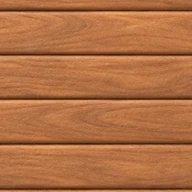
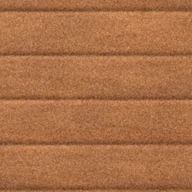
💄 UI : 로비 에셋을 카피바라 펠트 화풍으로 통일 (1차)
- 사진 같던 바닥 텍스처 4종을 펠트 톤으로 보정 (scripts/feltify_ground.py, 물 원본 보존)
- 모든 스프라이트·오두막에 카피바라와 같은 접지 그림자 (drawGroundShadow)
- 타일 경계 단색 직선 띠 → 안쪽으로 옅어지는 그라디언트, 평면 들꽃 점 제거
- 목욕 머리 위 벡터 유자 → 온천 그림 속 펠트 유자 (props/yuzu), 김은 방사형 그라디언트
- 크기 비율: 오두막 높이 맞춤(hut-1·3 폭 5.8), 나무·야자 키움, 등불 줄임
- skills.md에 펠트 통일 규칙(소재·형태·시점·다양성·크기)과 재생성 대기 프롬프트 기록
  (hut-1·hut-3·울타리·등불·방명록 게시판·펠트 바닥은 Codex 한도로 9/20 이후 생성)

diff --git a/app/_lobby/lobby.tsx b/app/_lobby/lobby.tsx
@@ -334,6 +334,14 @@ function saveSession(key: string, value: string) {
 
 const mod = (value: number, size: number) => ((value % size) + size) % size;
 
+/** 발밑 접지 그림자. 캐릭터·오두막·나무·소품 모두 같은 색으로 깔아야 투명 배경 그림이 바닥에 떠 보이지 않는다 */
+function drawGroundShadow(ctx: CanvasRenderingContext2D, x: number, y: number, radiusX: number, radiusY = radiusX / 3) {
+  ctx.fillStyle = "rgba(30,40,10,0.25)";
+  ctx.beginPath();
+  ctx.ellipse(x, y, radiusX, radiusY, 0, 0, Math.PI * 2);
+  ctx.fill();
+}
+
 /** 이미지를 가운데·바닥 기준으로 폭에 맞춰 그리고 그린 영역을 돌려준다 */
 function drawImageBottom(ctx: CanvasRenderingContext2D, image: HTMLImageElement, centerX: number, bottomY: number, width: number) {
   const height = (width * image.naturalHeight) / image.naturalWidth;
@@ -382,20 +390,13 @@ function drawChunk(
       ctx.fillRect(x, y, TILE, TILE);
     }
     if (kind === "meadow") {
-      // 같은 풀 텍스처가 반복돼 보이지 않게 짙은 풀 얼룩과 작은 들꽃을 섞는다
+      // 같은 풀 텍스처가 반복돼 보이지 않게 짙고 옅은 풀 얼룩을 섞는다 (펠트 텍스처와 안 맞는 평면 들꽃 점은 그리지 않는다)
       const noise = hash2(3, tx, ty);
       if (noise < 0.14) {
         ctx.fillStyle = noise < 0.07 ? "rgba(50,90,10,0.16)" : "rgba(255,245,160,0.12)";
         ctx.beginPath();
         ctx.ellipse(x + TILE / 2, y + TILE / 2, TILE * (0.5 + noise * 2), TILE * (0.35 + noise), 0, 0, Math.PI * 2);
         ctx.fill();
-      } else if (noise > 0.95) {
-        ctx.fillStyle = noise > 0.975 ? "#fff6f0" : "#ffd84a";
-        for (let i = 0; i < 3; i++) {
-          ctx.beginPath();
-          ctx.arc(x + 10 + hash2(i + 4, tx, ty) * 28, y + 10 + hash2(i + 7, tx, ty) * 28, 2.2, 0, Math.PI * 2);
-          ctx.fill();
-        }
       }
     }
 
@@ -408,23 +409,19 @@ function drawChunk(
     for (const [dx, dy] of neighbors) {
       const other = TEXTURE_OF[tileAt(tx + dx, ty + dy)];
       if (other === kind) continue;
-      const band = (thick: number) =>
-        [dx > 0 ? x + TILE - thick : x, dy > 0 ? y + TILE - thick : y, dx === 0 ? TILE : thick, dy === 0 ? TILE : thick] as const;
-      if (kind === "deck") {
-        // 데크 가장자리 짙은 테두리목
-        ctx.fillStyle = "#6e3f22";
-        ctx.fillRect(...band(4));
-      } else if (kind === "water") {
-        // 물가: 진흙 둑 + 얕은 물 밝은 띠
-        ctx.fillStyle = "#8a5634";
-        ctx.fillRect(...band(6));
-        ctx.fillStyle = "rgba(255,255,255,0.25)";
-        const [bx, by, bw, bh] = band(9);
-        ctx.fillRect(dx > 0 ? bx : dx < 0 ? bx + 6 : bx, dy > 0 ? by : dy < 0 ? by + 6 : by, dx === 0 ? bw : 3, dy === 0 ? bh : 3);
-      } else if (kind === "mud" && other === "meadow") {
-        ctx.fillStyle = "rgba(70,110,30,0.28)";
-        ctx.fillRect(...band(5));
-      }
+      /** 경계 쪽이 진하고 안쪽으로 옅어지는 띠. 단색 직선 띠는 펠트 텍스처 위에서 계단처럼 튀어 보인다 */
+      const softBand = (thick: number, rgb: string, alpha: number) => {
+        const edgeX = dx > 0 ? x + TILE : x;
+        const edgeY = dy > 0 ? y + TILE : y;
+        const gradient = ctx.createLinearGradient(edgeX, edgeY, edgeX - dx * thick, edgeY - dy * thick);
+        gradient.addColorStop(0, `rgba(${rgb},${alpha})`);
+        gradient.addColorStop(1, `rgba(${rgb},0)`);
+        ctx.fillStyle = gradient;
+        ctx.fillRect(dx > 0 ? x + TILE - thick : x, dy > 0 ? y + TILE - thick : y, dx === 0 ? TILE : thick, dy === 0 ? TILE : thick);
+      };
+      if (kind === "deck") softBand(10, "110,63,34", 0.5); // 데크 가장자리 그늘
+      else if (kind === "water") softBand(14, "138,86,52", 0.55); // 물가 진흙 둑
+      else if (kind === "mud" && other === "meadow") softBand(12, "70,110,30", 0.3);
     }
   });
   return canvas;
@@ -441,6 +438,7 @@ function drawBuilding(
   const centerX = (building.tx + BUILDING_WIDTH / 2) * TILE;
   const bottom = building.frontY + TILE * 0.5;
   if (!ready(image)) return;
+  drawGroundShadow(ctx, centerX, bottom - TILE * 0.3, asset.width * TILE * 0.45, TILE * 0.55);
   const box = drawImageBottom(ctx, image, centerX, bottom, asset.width * TILE);
   if (!ready(icon)) return;
 
@@ -479,34 +477,23 @@ function drawSteam(ctx: CanvasRenderingContext2D, x: number, y: number, now: num
   for (let k = 0; k < 7; k++) {
     const phase = (t * 0.22 + k / 7) % 1;
     const drift = Math.sin(t * 0.8 + k * 1.7) * 14;
-    ctx.fillStyle = `rgba(255,255,255,${0.28 * Math.sin(phase * Math.PI)})`;
+    const cx = x + (k - 3) * 36 + drift;
+    const cy = y - phase * TILE * 2.4;
+    const radius = 16 + phase * 22;
+    // 가장자리가 딱 끊기는 원 대신 안에서 밖으로 흩어지는 김
+    const puff = ctx.createRadialGradient(cx, cy, 0, cx, cy, radius);
+    puff.addColorStop(0, `rgba(255,255,255,${0.3 * Math.sin(phase * Math.PI)})`);
+    puff.addColorStop(1, "rgba(255,255,255,0)");
+    ctx.fillStyle = puff;
     ctx.beginPath();
-    ctx.arc(x + (k - 3) * 36 + drift, y - phase * TILE * 2.4, 10 + phase * 16, 0, Math.PI * 2);
+    ctx.arc(cx, cy, radius, 0, Math.PI * 2);
     ctx.fill();
   }
 }
 
-/** 머리 꼭대기(x, bottom)에 얹은 유자 한 알 */
-function drawYuzu(ctx: CanvasRenderingContext2D, x: number, bottom: number) {
-  const radius = 7;
-  const cy = bottom - radius * 0.7;
-  ctx.fillStyle = "#f5c62e";
-  ctx.strokeStyle = "rgba(120,80,10,0.85)";
-  ctx.lineWidth = 1.5;
-  ctx.beginPath();
-  ctx.ellipse(x, cy, radius, radius * 0.85, 0, 0, Math.PI * 2);
-  ctx.fill();
-  ctx.stroke();
-  // 반들반들 윤기
-  ctx.fillStyle = "rgba(255,255,230,0.8)";
-  ctx.beginPath();
-  ctx.arc(x - radius * 0.35, cy - radius * 0.3, radius * 0.25, 0, Math.PI * 2);
-  ctx.fill();
-  // 꼭지 잎
-  ctx.fillStyle = "#5e9a2e";
-  ctx.beginPath();
-  ctx.ellipse(x + 3, cy - radius * 0.85 - 1, 4, 2, -0.5, 0, Math.PI * 2);
-  ctx.fill();
+/** 머리 꼭대기(x, bottom)에 얹은 펠트 유자 한 알 (온천 그림 속 유자와 같은 그림). 밑면이 털에 묻히게 조금 내린다 */
+function drawYuzu(ctx: CanvasRenderingContext2D, image: HTMLImageElement | undefined, x: number, bottom: number) {
+  if (ready(image)) drawImageBottom(ctx, image, x, bottom + 3, 16);
 }
 
 /**
@@ -521,6 +508,7 @@ function drawBathing(
   stride: number,
   now: number,
   animate: boolean,
+  yuzu: HTMLImageElement | undefined,
   drawBody: (x: number, y: number) => void,
 ) {
   ctx.save();
@@ -540,7 +528,7 @@ function drawBathing(
   const headX = x - STAND_SIZE / 2 + (STAND_SIZE * headCx) / 100;
   const headTop = y + BATH_SINK - STAND_SIZE * STAND_FOOT + (STAND_SIZE * (headCy - headRy)) / 100;
   const lift = stride > 0 && animate ? Math.abs(Math.sin((stride / (STRIDE_PX * 2)) * Math.PI)) * 3 : 0;
-  drawYuzu(ctx, headX, headTop + YUZU_SINK - lift);
+  drawYuzu(ctx, yuzu, headX, headTop + YUZU_SINK - lift);
 }
 
 function drawLabel(ctx: CanvasRenderingContext2D, text: string, x: number, y: number, strong = false) {
@@ -762,12 +750,7 @@ function drawCapybara(
     ctx.drawImage(image, left, top, size, size);
     drawOutfit(ctx, image, outfit, left, top, size, wardrobe.image);
   };
-  if (!look.sitting) {
-    ctx.fillStyle = "rgba(30,40,10,0.25)";
-    ctx.beginPath();
-    ctx.ellipse(x, y, 18, 6, 0, 0, Math.PI * 2);
-    ctx.fill();
-  }
+  if (!look.sitting) drawGroundShadow(ctx, x, y, 18);
 
   if (look.stunned) {
     const image = sprites.get("stun");
@@ -2209,7 +2192,11 @@ export function Lobby({ games }: { games: DoorGame[] }) {
       const sprite = (id: SpriteId, x: number, bottom: number, scale = 1) => {
         const entry = images.get(id);
         if (entry && ready(entry.image)) {
-          drawImageBottom(ctx, entry.image, x, bottom + (entry.asset.offsetY ?? 0), entry.asset.width * TILE * scale);
+          const width = entry.asset.width * TILE * scale;
+          const base = bottom + (entry.asset.offsetY ?? 0);
+          // 물 위에 뜬 수련·납작한 온천은 그림에 이미 바닥이 그려져 있어 그림자를 깔지 않는다
+          if (id !== "lotus" && id !== "onsen") drawGroundShadow(ctx, x, base - 3, width * 0.38);
+          drawImageBottom(ctx, entry.image, x, base, width);
         }
       };
 
@@ -2300,7 +2287,7 @@ export function Lobby({ games }: { games: DoorGame[] }) {
               drawCapybara(ctx, sprites, x, y, remote.facing, look, remote.outfit, wardrobe, now, !reducedMotion);
               if (meal && look.eating >= 0 && !look.sitting) drawFood(ctx, meal.name, x, y, look.eating);
             };
-            if (remoteBathing) drawBathing(ctx, remote.x, remote.y, remote.facing, look.stride, now, !reducedMotion, body);
+            if (remoteBathing) drawBathing(ctx, remote.x, remote.y, remote.facing, look.stride, now, !reducedMotion, images.get("yuzu")?.image, body);
             else body(remote.x, remote.y);
           },
         });
@@ -2330,7 +2317,7 @@ export function Lobby({ games }: { games: DoorGame[] }) {
             drawCapybara(ctx, sprites, x, y, me.facing, myLook, outfitRef.current, wardrobe, now, !reducedMotion);
             if (myMeal && myLook.eating >= 0 && !myLook.sitting) drawFood(ctx, myMeal.name, x, y, myLook.eating);
           };
-          if (myBathing) drawBathing(ctx, drawnX, drawnY, me.facing, myLook.stride, now, !reducedMotion, body);
+          if (myBathing) drawBathing(ctx, drawnX, drawnY, me.facing, myLook.stride, now, !reducedMotion, images.get("yuzu")?.image, body);
           else body(drawnX, drawnY);
         },
       });

diff --git a/lib/lobby/assets/index.ts b/lib/lobby/assets/index.ts
@@ -19,12 +19,13 @@ import guestbookBoard from "./props/guestbook-board";
 import lantern from "./props/lantern";
 import logSeat from "./props/log-seat";
 import onsen from "./props/onsen";
+import yuzu from "./props/yuzu";
 import type { LobbyAsset } from "./types";
 
 export type { BuildingAsset, GroundAsset, LobbyAsset, LobbyAssetCategory, SpriteAsset } from "./types";
 
 export const GROUND_ASSETS = [meadow, mud, water, deck] as const;
-export const SPRITE_ASSETS = [treeTropical, palm, lotus, bananaBush, grassBush, rocks, reeds, fence, logSeat, lantern, guestbookBoard, onsen] as const;
+export const SPRITE_ASSETS = [treeTropical, palm, lotus, bananaBush, grassBush, rocks, reeds, fence, logSeat, lantern, guestbookBoard, onsen, yuzu] as const;
 /** 오두막 모양. 게임 순서대로 돌려 쓴다 — 여기에 추가하면 오두막 종류가 늘어난다 */
 export const BUILDING_ASSETS = [hut1, hut2, hut3] as const;
 

diff --git a/lib/lobby/assets/buildings/hut-1/index.ts b/lib/lobby/assets/buildings/hut-1/index.ts
@@ -1,9 +1,9 @@
 import type { BuildingAsset } from "../../types";
 
-/** 초가 원두막 + 나무 아케이드 간판. 폭은 오두막 칸(BUILDING_WIDTH 6) + 처마 0.8 */
+/** 초가 원두막 + 나무 아케이드 간판. 키가 큰 그림이라 폭을 줄여 세 오두막 높이를 약 290px(카피바라의 4배대)로 맞춘다 */
 export default {
   id: "hut-1",
   category: "buildings",
-  width: 6.8,
+  width: 5.8,
   screen: { x: 0.409, y: 0.108, width: 0.196, height: 0.154 },
 } as const satisfies BuildingAsset;

diff --git a/lib/lobby/assets/buildings/hut-3/index.ts b/lib/lobby/assets/buildings/hut-3/index.ts
@@ -1,9 +1,9 @@
 import type { BuildingAsset } from "../../types";
 
-/** 바나나잎 대나무 원두막 + 나무 TV 간판 */
+/** 바나나잎 대나무 원두막 + 나무 TV 간판. hut-1처럼 키가 커서 폭을 줄여 높이를 맞춘다 */
 export default {
   id: "hut-3",
   category: "buildings",
-  width: 6.8,
+  width: 5.8,
   screen: { x: 0.33, y: 0.292, width: 0.26, height: 0.166 },
 } as const satisfies BuildingAsset;

diff --git a/lib/lobby/assets/props/lantern/index.ts b/lib/lobby/assets/props/lantern/index.ts
@@ -1,4 +1,4 @@
 import type { SpriteAsset } from "../../types";
 
-/** 나무 등불 */
-export default { id: "lantern", category: "props", width: 1 } as const satisfies SpriteAsset;
+/** 나무 등불. 키는 카피바라의 1.2~1.4배 (나무보다 작게) */
+export default { id: "lantern", category: "props", width: 0.8 } as const satisfies SpriteAsset;

diff --git a/lib/lobby/assets/nature/tree-tropical/index.ts b/lib/lobby/assets/nature/tree-tropical/index.ts
@@ -1,4 +1,4 @@
 import type { SpriteAsset } from "../../types";
 
 /** 열대 나무 (바깥 습지 tree 타일) */
-export default { id: "tree-tropical", category: "nature", width: 2.1 } as const satisfies SpriteAsset;
+export default { id: "tree-tropical", category: "nature", width: 2.4 } as const satisfies SpriteAsset;

diff --git a/lib/lobby/assets/props/yuzu/index.ts b/lib/lobby/assets/props/yuzu/index.ts
@@ -1,0 +1,4 @@
+import type { SpriteAsset } from "../../types";
+
+/** 목욕하는 카피바라 머리에 얹는 유자 한 알. 온천 그림 속 펠트 유자를 잘라 썼다. 폭은 drawYuzu가 정한다 */
+export default { id: "yuzu", category: "props", width: 0.33 } as const satisfies SpriteAsset;

diff --git a/lib/lobby/assets/nature/palm/index.ts b/lib/lobby/assets/nature/palm/index.ts
@@ -1,4 +1,4 @@
 import type { SpriteAsset } from "../../types";
 
 /** 야자수 (바깥 습지 tree 타일) */
-export default { id: "palm", category: "nature", width: 1.7 } as const satisfies SpriteAsset;
+export default { id: "palm", category: "nature", width: 2 } as const satisfies SpriteAsset;

diff --git a/scripts/feltify_ground.py b/scripts/feltify_ground.py
@@ -1,0 +1,54 @@
+"""사진 같은 바닥 텍스처를 카피바라 펠트 톤으로 바꾼다: 잔 디테일 제거 → 대비 낮춤 → 털 결 노이즈.
+원본 assets-src/lobby/ground/<id>/source.png → public/assets/images/lobby/ground/<id>/image.webp (192×192)
+3×3로 이어 붙여 처리한 뒤 가운데를 잘라서 반복 이음매가 그대로 이어진다
+
+ponytail: 이미지 처리 보정이다. 펠트 바닥을 make_image로 새로 생성하면(skills.md "펠트 통일 재생성") 이 스크립트는 지운다
+"""
+
+import random
+from pathlib import Path
+
+from PIL import Image, ImageChops, ImageEnhance, ImageFilter
+
+ROOT = Path(__file__).resolve().parent.parent
+
+# id: (중앙값 필터 크기, 흐림 반경, 원래 무늬를 남기는 비율, 채도, 밝기 상한)
+SPEC = {
+    "meadow": (9, 2.0, 0.45, 0.85, 235),
+    "mud": (9, 2.0, 0.5, 0.9, 235),
+    "water": (5, 2.5, 0.8, 1.05, 205),
+    "deck": (7, 1.2, 0.6, 0.9, 235),
+}
+
+
+def tiled(image: Image.Image, fn) -> Image.Image:
+    w, h = image.size
+    big = Image.new(image.mode, (w * 3, h * 3))
+    for i in range(3):
+        for j in range(3):
+            big.paste(image, (i * w, j * h))
+    return fn(big).crop((w, h, w * 2, h * 2))
+
+
+def fiber_noise(size: int, seed: int) -> Image.Image:
+    rnd = random.Random(seed)
+    noise = Image.new("L", (size, size))
+    noise.putdata([128 + rnd.randint(-40, 40) for _ in range(size * size)])
+    return tiled(noise, lambda im: im.filter(ImageFilter.GaussianBlur(0.8))).convert("RGB")
+
+
+for seed, (name, (median, blur, keep, saturation, cap)) in enumerate(SPEC.items()):
+    image = Image.open(ROOT / f"assets-src/lobby/ground/{name}/source.png").convert("RGB").resize((384, 384), Image.LANCZOS)
+    image = tiled(
+        image,
+        lambda big: Image.blend(
+            big.filter(ImageFilter.GaussianBlur(24)),
+            big.filter(ImageFilter.MedianFilter(median)).filter(ImageFilter.GaussianBlur(blur)),
+            keep,
+        ),
+    )
+    image = ImageEnhance.Color(image.point(lambda v: min(v, cap))).enhance(saturation)
+    # 128 기준으로 밝기만 살짝 흔들어 털 결을 입힌다
+    image = ImageChops.add(image, fiber_noise(384, seed), offset=-128)
+    image.resize((192, 192), Image.LANCZOS).save(ROOT / f"public/assets/images/lobby/ground/{name}/image.webp", "WEBP", quality=90, method=6)
+    print(name)

diff --git a/scripts/make_image/skills.md b/scripts/make_image/skills.md
@@ -62,10 +62,47 @@ assets-src/lobby/<분류>/<id>/source.png            # 생성 원본
 - `buildings/hut-{1,2,3}`: 게임 오두막 3종 (1 초가 원두막+나무 아케이드 간판, 2 카피바라 귀 풀 굴집+나무 휴대용 게임기 간판, 3 바나나잎 대나무 원두막+나무 TV 간판). 간판 화면은 이미지에서 비워 두고, 화면 위치(이미지 대비 비율)를 정의의 `screen`에 적는다 — 로비가 그 자리에 게임 아이콘을 그린다
 - 게임 아이콘: `public/assets/images/games/<slug>/icon.webp` (원본 `assets-src/games/<slug>/icon.png`) — 오두막 간판 화면에 켜지는, 그 게임을 알리는 소품 하나. 로비에서 게임을 알리는 표시는 이것 하나뿐이다. 작은 화면에 들어가므로 굵고 단순한 실루엣, 생성 배경은 마젠타(#FF00FF) 단색(검은 조약돌·어두운 나무가 배경 제거에 안 먹히게). 마을 테마에 맞게 나무·잎사귀·조약돌·코코넛 같은 자연 소재 + 펠트 질감 (반응속도=나무 스톱워치, 클릭=나무·이끼 마우스, 몰래 먹기=잎 접시 위 수박, 슈팅=나무·대나무 비행기, 바둑=코코넛 그릇 조약돌, 오목=통나무 판 조약돌, 알까기=통나무 판 위 튕기는 조약돌). 투명 배경, 가장자리까지 자른 뒤 384px 이하. 없으면 아이콘 없이 오두막만 보인다
 - 이전 포털 에셋은 `assets-src/lobby/_archive-portal/`에 보관 (사용 안 함)
-- `ground/{meadow,mud,water,deck}`: 192×192 바닥 텍스처 (2×2 시트 1장 → 칸마다 반 칸 밀어 가장자리 블렌딩, 데크는 판자 줄이라 그대로). 월드 192px(4타일)마다 반복
+- `ground/{meadow,mud,water,deck}`: 192×192 바닥 텍스처 (2×2 시트 1장 → 칸마다 반 칸 밀어 가장자리 블렌딩, 데크는 판자 줄이라 그대로). 월드 192px(4타일)마다 반복. 지금 게임용 이미지는 사진 같던 원본(`source.png`)을 `python scripts/feltify_ground.py`로 펠트 톤으로 보정한 것이다 — 아래 재생성으로 펠트 바닥을 새로 만들면 스크립트는 지운다
+- `props/yuzu`: 목욕하는 카피바라 머리에 얹는 유자. `props/onsen/source.png` 속 유자 윗부분을 타원으로 잘랐다
 - 이전 영국 광장 에셋은 `assets-src/lobby/_archive-british-square/`에 보관 (사용 안 함)
 
 **화풍 일치:** 로비 에셋은 카피바라 기준이다. 새로 만들 때 `assets-src/characters/capybara/capybara-idle-down.png`를 참고 이미지(`-i`)로 넣고 프롬프트에 "첨부 카피바라 인형과 같은 털·펠트 봉제인형 질감"을 적는다. 도시·석조·네온처럼 카피바라가 살지 않을 곳의 소재는 쓰지 않는다
+
+### 펠트 통일 규칙 (로비 에셋 합격 기준)
+
+기준 그림은 `capybara-idle-down.png`, `buildings/hut-2`, `nature/rocks`, `nature/palm`, `props/log-seat`. 새 에셋은 이 중 카피바라 + 가장 비슷한 것 하나를 참고로 넣고, 생성 뒤 카피바라와 같은 축척으로 나란히 붙여 보고 합격을 정한다
+
+- **소재:** 털·펠트 봉제 원단 하나. 나뭇결 무늬, 밧줄 꼬임, 전구 줄, 금속, 유리 반사, 사진 같은 잔디·흙·물 질감 금지
+- **형태:** 통통한 덩어리, 모든 모서리 둥글게, 부품 수 적게. 가는 기둥·계단·대나무 난간 같은 잔 부품 금지
+- **시점·조명:** 세워 그리는 그림은 약간 위에서 본 3/4 정면, 부드러운 빛 하나(왼쪽 위). 바닥 텍스처는 수직으로 내려다본 평면(물체·그림자 없음)
+- **색:** 따뜻한 중채도. 카피바라 갈색, 이끼 초록, 짚 노랑, 크림 베이지가 기본
+- **다양성:** 소재·조명·시점만 통일하고 실루엣·색은 에셋마다 다르게 — 오두막 셋은 hut-1 키 큰 버섯 짚 지붕 / hut-2 곰귀 초록 돔 / hut-3 낮고 넓은 바나나잎 정자처럼 멀리서 실루엣만 봐도 구분돼야 한다
+- **그림자:** 그림에 바닥 그림자를 넣지 않는다 — 접지 그림자는 로비 코드(`drawGroundShadow`)가 모든 스프라이트에 똑같이 깐다
+- **크기(카피바라 서기 키 약 67px 기준, 정의의 `width`로 맞춤):** 오두막 4~4.5배(약 290px) · 나무 2~2.5배 · 등불·게시판 1.2~1.4배 · 부들 1.4배 · 울타리 0.7배
+
+### 펠트 통일 재생성 (대기 중)
+
+2026-09-15에 Codex 사용량 한도(9/20 12:15 해제)로 못 만든 것. 한도가 풀리면 `scripts`에서 아래를 두 개씩 돌리고, 결과를 위 규칙으로 확인한 뒤 각 에셋 폴더(`assets-src/lobby/<분류>/<id>/source.png`, 게임용 WebP 긴 변 672(오두막)·384(소품))에 넣는다. 오두막은 간판 화면 비율 `screen`을 새로 재고, 폭 `width`는 높이 약 290px가 되게 다시 맞춘다
+
+```powershell
+cd scripts
+$CAPY = "../assets-src/characters/capybara/capybara-idle-down.png"
+$HUT2 = "../assets-src/lobby/buildings/hut-2/source.png"
+
+# 1) hut-1: 키 큰 버섯 짚 지붕 + 아케이드 간판
+python -m make_image "게임 오두막 한 채. 첫 번째 참고 이미지 카피바라 인형과 같은 부드러운 털·펠트 봉제인형 질감의 3D 미니어처 렌더. 두 번째 참고 이미지(곰귀 풀 굴집)와 같은 화풍·부드러운 조명(왼쪽 위)·시점(약간 위에서 내려다본 3/4 정면)·통통하고 둥근 덩어리감으로 같은 마을 건물처럼 보여야 한다. 하지만 모양·색은 확실히 달라야 한다: 키가 조금 큰 둥근 원통형 몸통(크림빛 베이지 펠트 벽) 위에 크고 볼록한 버섯 모자 모양의 짚색 노란 펠트 초가 지붕(가장자리가 둥글게 말려 내려옴, 꼭대기에 작은 잎 두 장). 정면 가운데 둥근 아치 문(안은 따뜻한 주황 빛, 작은 펠트 아케이드 게임기 실루엣 하나), 문 옆 동그란 창 하나. 지붕 앞쪽 위에 둥근 모서리 펠트 나무 아케이드 게임기 간판(빨간 동그란 조이스틱 하나와 동그란 버튼 세 개, 가운데 화면은 비어 있는 짙은 갈색 단색 사각형 — 글자·그림·빛 없음). 발밑에 작은 펠트 풀덤불과 흰 꽃 두세 송이. 금지: 나뭇결 무늬, 밧줄 꼬임, 전구 줄, 계단, 가는 기둥, 대나무, 글자. 부품 적게, 모서리 둥글게. 건물 전체가 가운데에 잘리지 않고, 배경은 순수 마젠타(#FF00FF) 단색(그림자·바닥 없음)." -n felt-hut-1 --keep-background -i $CAPY -i $HUT2
+
+# 2) hut-3: 낮고 넓은 바나나잎 정자 + TV 간판
+python -m make_image "게임 오두막 한 채. 첫 번째 참고 이미지 카피바라 인형과 같은 부드러운 털·펠트 봉제인형 질감의 3D 미니어처 렌더. 두 번째 참고 이미지(곰귀 풀 굴집)와 같은 화풍·조명(왼쪽 위)·시점(약간 위에서 내려다본 3/4 정면)·통통한 덩어리감. 모양·색은 확실히 달라야 한다: 가로로 넓고 낮은 한 층 정자. 짧고 아주 통통한 둥근 펠트 기둥 네 개, 둥근 펠트 통나무 단 위에 서 있고, 크고 둥근 밝은 연두 바나나잎 펠트 지붕 두 겹이 부드럽게 늘어진다. 안쪽 둥근 코코넛 갈색 펠트 벽에 둥근 입구(따뜻한 빛, 펠트 게임기 실루엣 하나). 지붕 앞 가운데에 둥근 모서리 펠트 나무 TV 간판(작고 둥근 안테나 두 개, 화면은 비어 있는 짙은 갈색 단색 사각형 — 글자·그림·빛 없음). 양옆에 작은 펠트 바나나잎 덤불. 금지: 대나무, 난간, 가는 기둥, 나뭇결, 밧줄 꼬임, 등불 여러 개, 2층, 글자. 건물 전체가 가운데에 잘리지 않고, 배경은 순수 마젠타(#FF00FF) 단색." -n felt-hut-3 --keep-background -i $CAPY -i $HUT2
+
+# 3) 소품 시트: 울타리·등불·방명록 게시판 (가로 3칸 → 알파 연결 요소로 자름)
+python -m make_image "가로로 긴 소품 시트 한 장, 소품 세 개가 서로 떨어져 가로로 나란히. 모두 첫 번째 참고 이미지 카피바라 인형과 같은 털·펠트 봉제인형 질감 3D 미니어처, 두 번째 참고 이미지(통나무 의자)와 같은 화풍·조명(왼쪽 위)·약간 위에서 본 3/4 정면 시점. 통통하고 둥글게, 부품 적게. 금지: 나뭇결 무늬, 밧줄 꼬임, 금속, 유리, 글자, 바닥 그림자. 1) 울타리 한 칸(좌우로 이어 붙여 쓸 수 있게 정면): 통통하고 둥근 머리의 연한 갈대색 펠트 말뚝 두 개 사이에 부드럽고 둥근 펠트 가로대 두 줄, 말뚝에 작은 잎 하나. 2) 등불: 짧고 통통한 둥근 펠트 말뚝 위에 둥근 호롱 모양 펠트 등(안쪽이 따뜻하게 빛남), 폭:높이 약 1:1.8. 3) 방명록 게시판: 짧고 통통한 둥근 말뚝 두 개, 둥근 모서리 크림 펠트 판에 잎 모양 펠트 쪽지 네 장을 둥근 펠트 단추로 꽂음, 위에 둥근 잎 펠트 지붕. 배경은 순수 마젠타(#FF00FF) 단색." -n felt-props-sheet --keep-background -i $CAPY -i ../assets-src/lobby/props/log-seat/source.png
+
+# 4) 바닥 2×2 시트: 왼쪽 위 풀밭, 오른쪽 위 진흙, 왼쪽 아래 물, 오른쪽 아래 데크 → 칸마다 192로 줄이고 반 칸 밀어 이음매 블렌딩
+python -m make_image "정사각형 한 장을 2×2 네 칸으로 똑같이 나눈 바닥 텍스처 시트. 위에서 수직으로 내려다본 완전한 평면(원근·물체·그림자 없음), 네 칸 모두 가장자리까지 가득 채우고 칸 사이 선·여백 없음. 소재는 첫 번째 참고 이미지 카피바라 인형과 같은 부드러운 털·펠트 원단 — 사진 같은 잔디·흙·물 반사·나뭇결 금지. 무늬는 크고 부드럽게, 따뜻한 중채도. 왼쪽 위: 짧은 초록 펠트 풀밭(두 번째 참고 이미지 지붕의 이끼 초록). 오른쪽 위: 따뜻한 갈색 펠트 진흙길(작고 둥근 펠트 조약돌 몇 개). 왼쪽 아래: 연둣빛 청록 펠트 물(반사광 없이 부드럽고 둥근 물결 몇 줄). 오른쪽 아래: 가로로 곧게 놓인 둥근 모서리 펠트 판자, 칸 하나에 판자 정확히 4줄, 따뜻한 밝은 갈색." -n felt-ground-sheet --keep-background -i $CAPY -i $HUT2
+```
+
+마젠타 배경은 make_image의 모서리 flood fill이 잘 못 지우므로 `--keep-background`로 받고, 초록 대비 빨강·파랑 차이로 알파를 만든다(위 `bag.webp`·먹기 이미지와 같은 방식)
 
 **바닥 텍스처처럼 화면을 꽉 채우는 이미지는 `--keep-background`** — 안 주면 모서리 색을 배경으로 알고 지워 버린다
 
